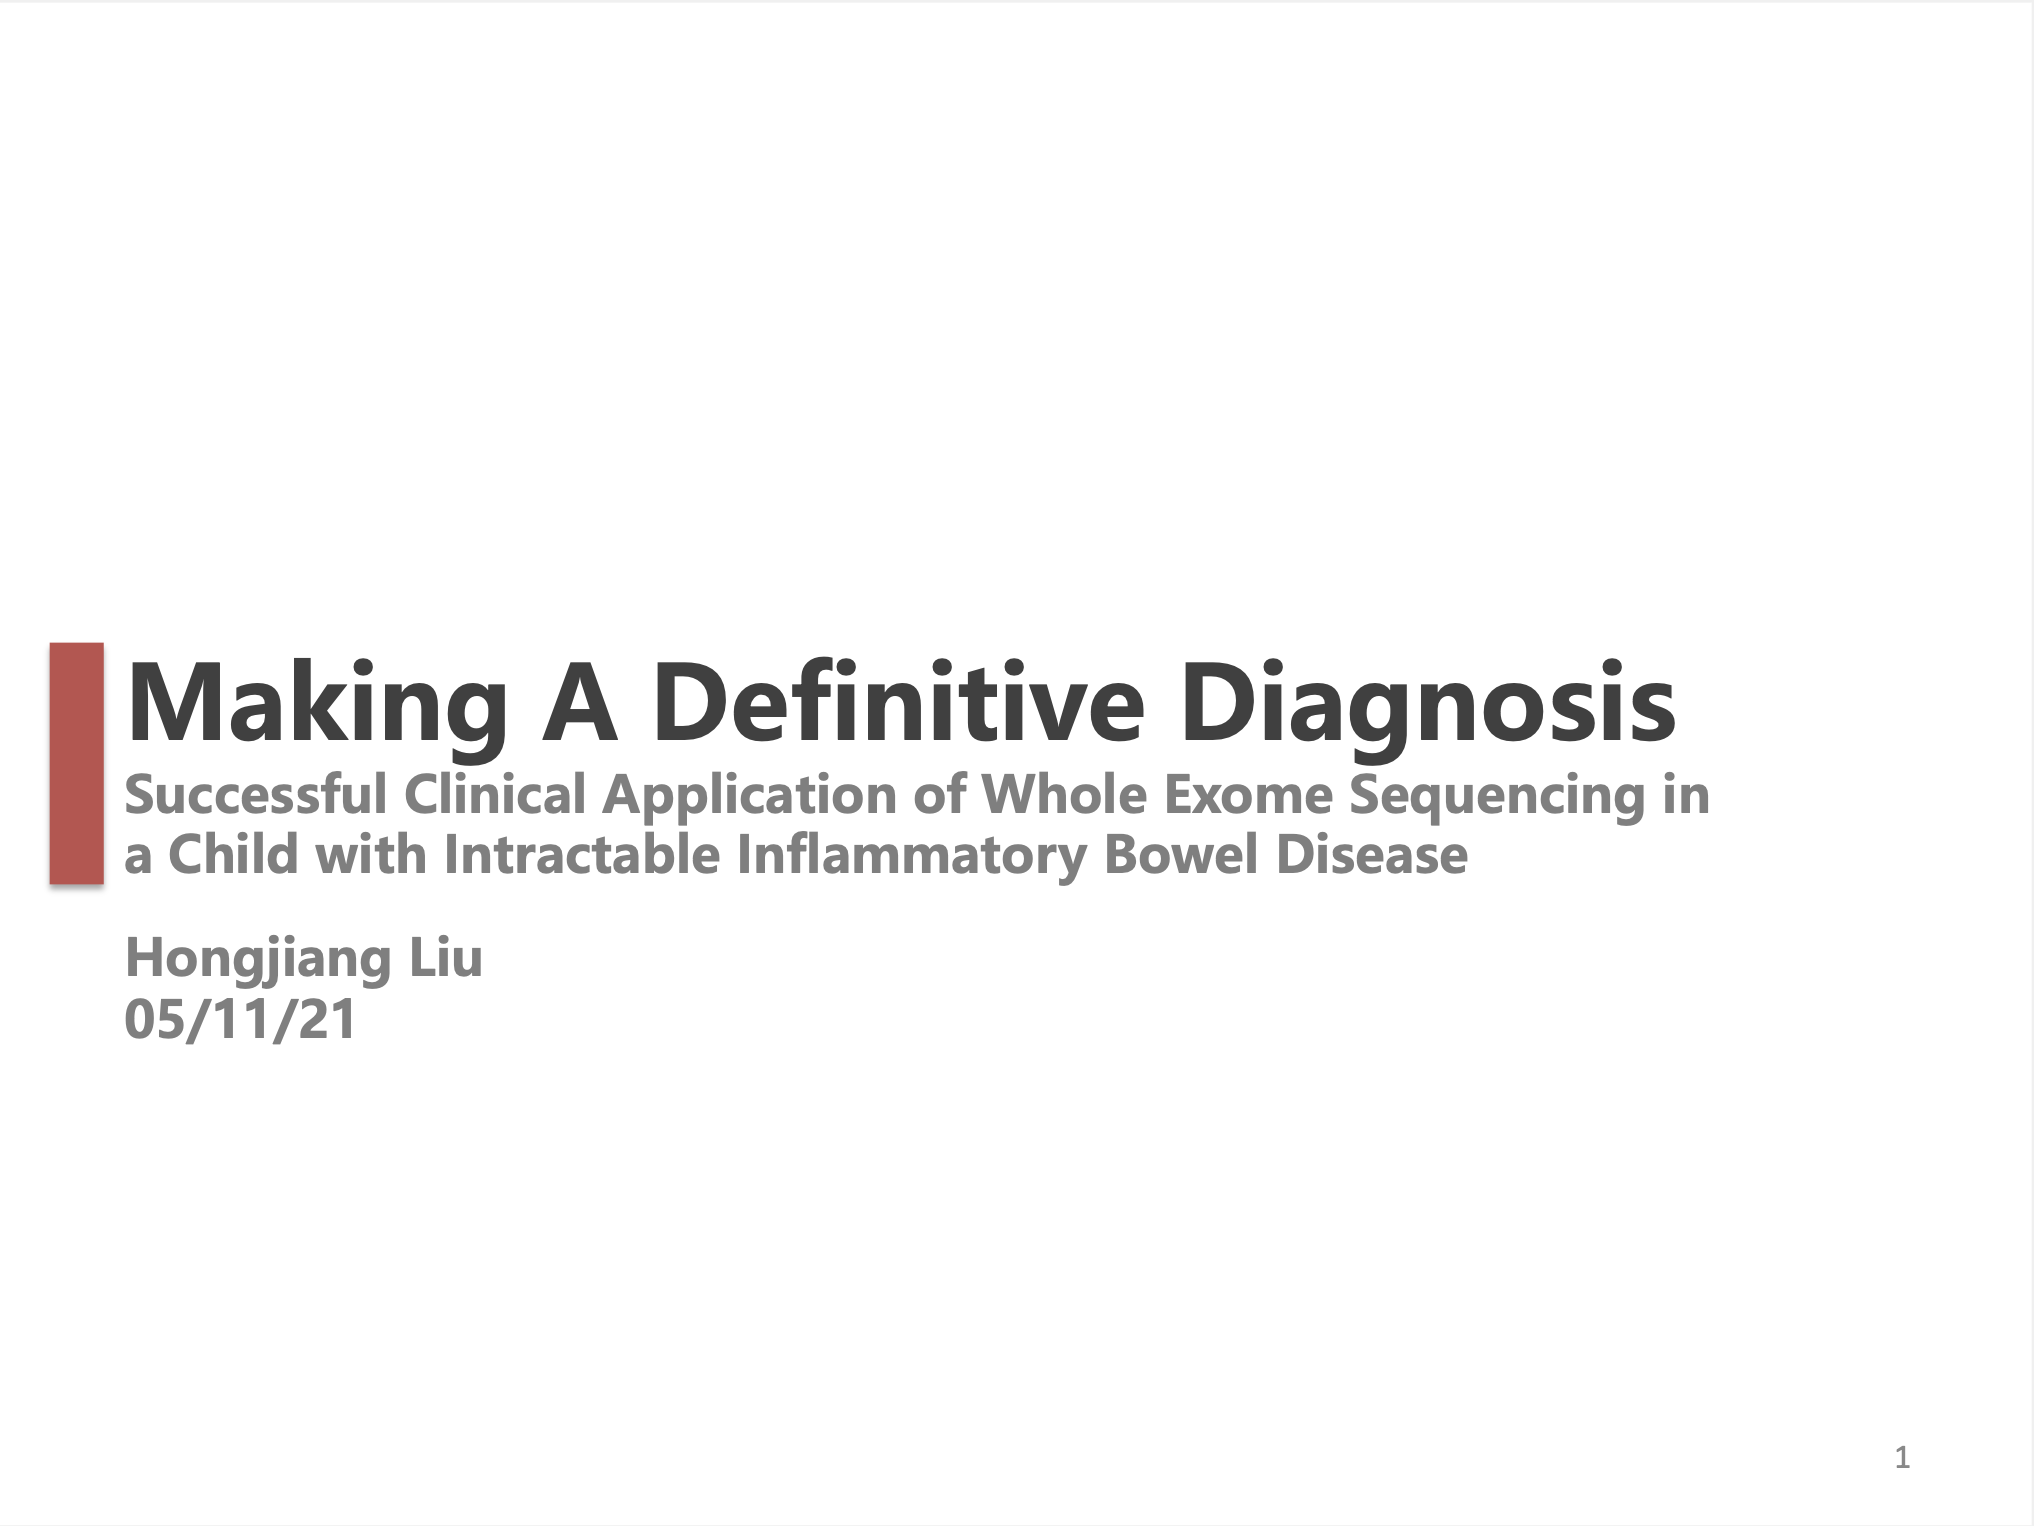
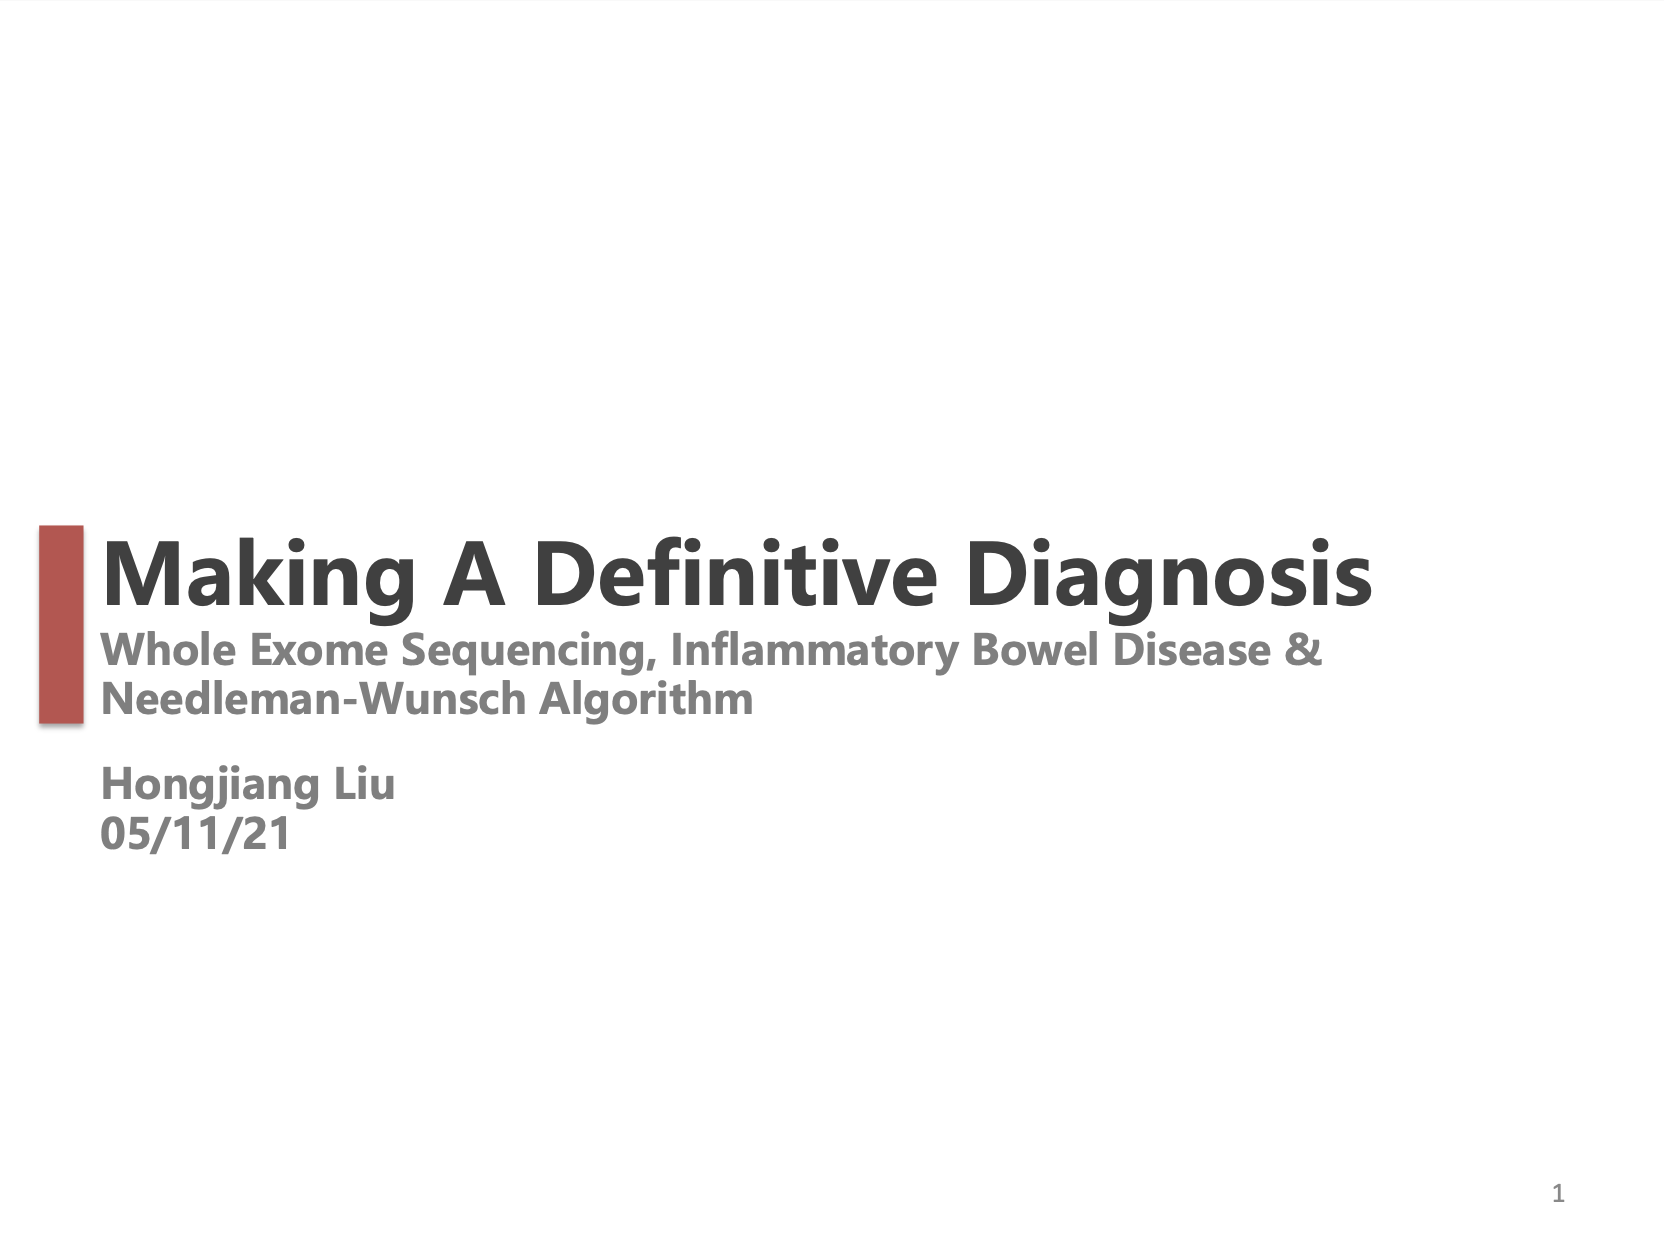
Talk 1 update

Changed region(s): [[0.0625, 0.4375, 0.8438, 0.5938], [0.0625, 0.625, 0.1875, 0.6875], [0.4375, 0.4375, 0.4688, 0.4688]]

diff --git a/_talks/2021-05-11-pre.md b/_talks/2021-05-11-pre.md
@@ -8,7 +8,7 @@ date: 2021-05-11
 location: "Tianjin, China"
 ---
 
-Successful Clinical Application of Whole Exome Sequencing in a Child with Intractable Inflammatory Bowel Disease.
+Whole Exome Sequencing, Inflammatory Bowel Disease &  Needleman-Wunsch Algorithm
 
 Based on Chapter 11, Genetics from Gene to Genome, 6th Edition.
 
